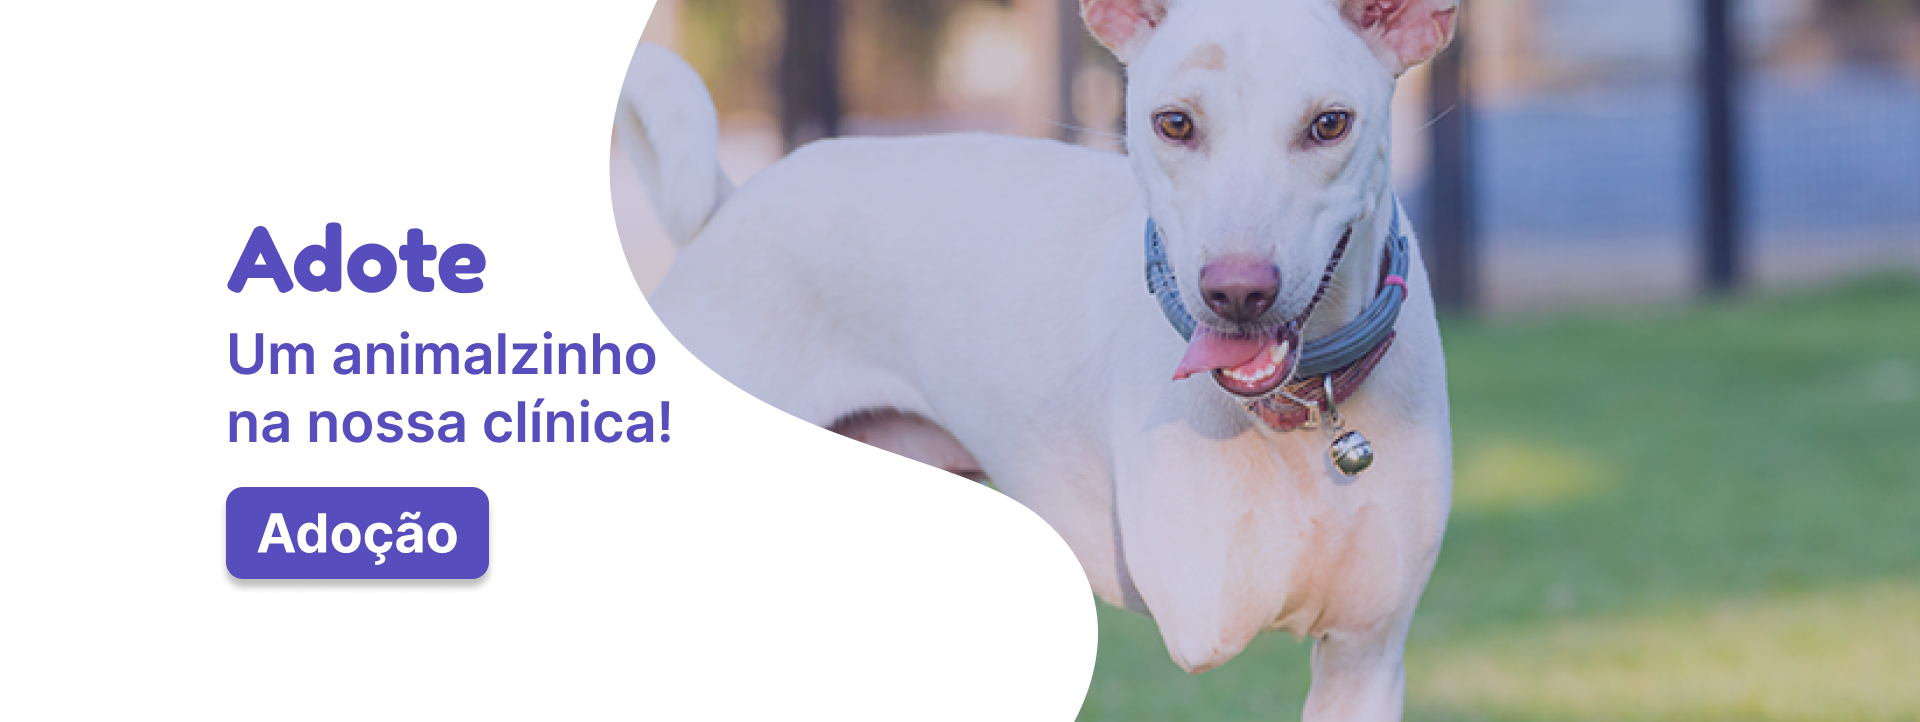
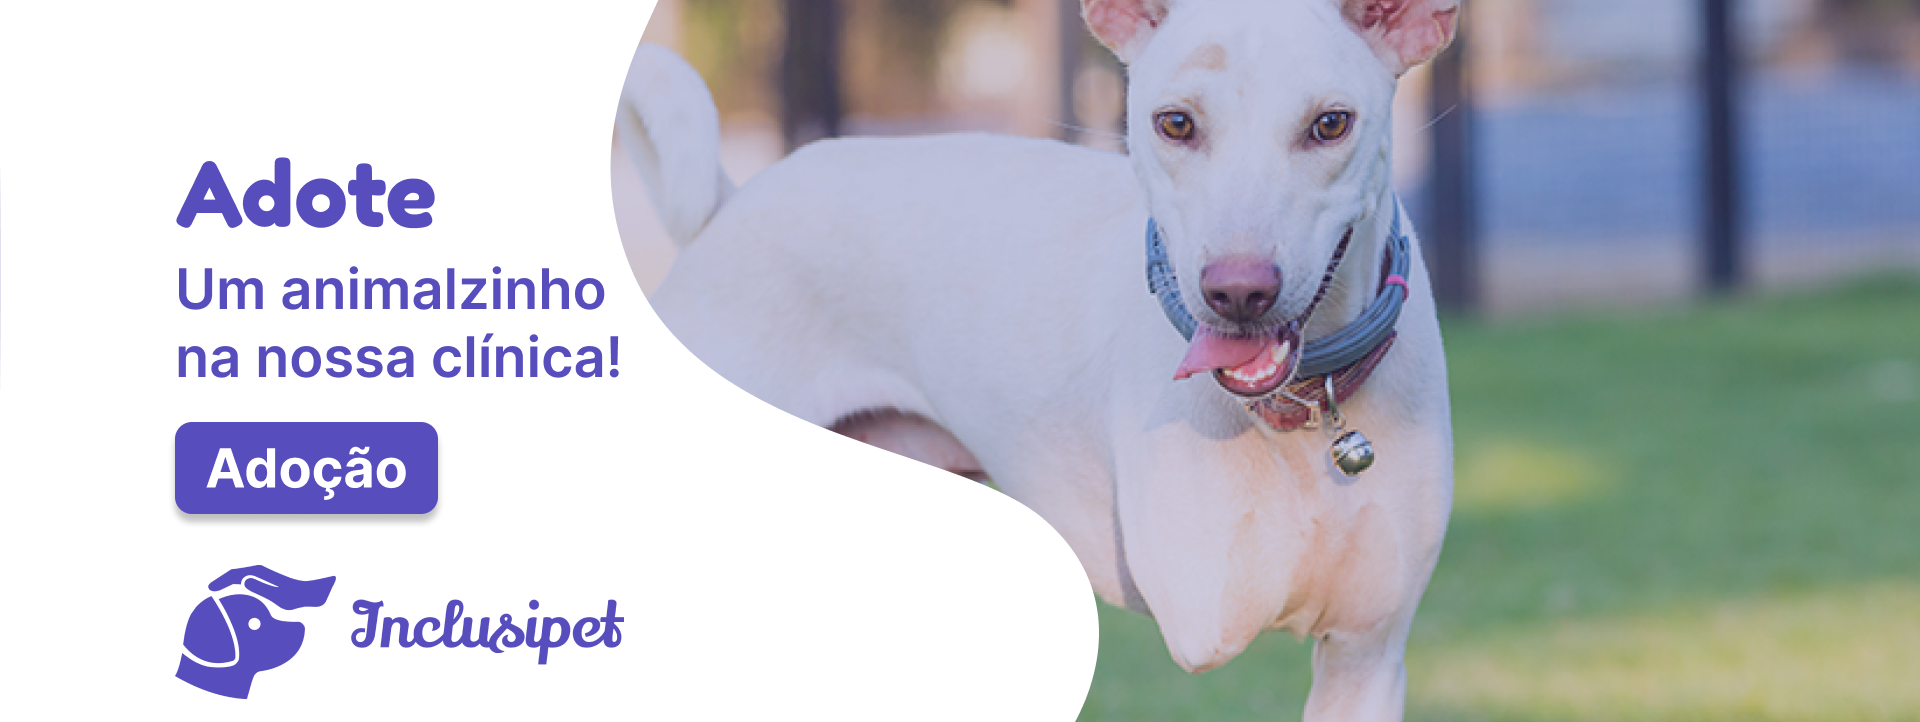
carrossel responsivo

diff --git a/index.html b/index.html
@@ -99,7 +99,7 @@
     <!-- CARROSSEL -->
     <div
       id="carouselExampleAutoplaying"
-      class="carousel slide"
+      class="carousel slide carousel-desktop"
       data-bs-ride="carousel"
     >
       <div class="carousel-indicators">
@@ -143,6 +143,81 @@
           <a href="agendamento.html"
             ><img
               src="img/Home/Slide3.png"
+              class="d-block w-100"
+              alt="Agendamento"
+          /></a>
+        </div>
+      </div>
+      <!--BOTÕES CARROSSEL-->
+      <button
+        class="carousel-control-prev"
+        type="button"
+        data-bs-target="#carouselExampleAutoplaying"
+        data-bs-slide="prev"
+      >
+        <span class="carousel-control-prev-icon" aria-hidden="true"></span>
+        <span class="visually-hidden">Anterior</span>
+      </button>
+      <button
+        class="carousel-control-next"
+        type="button"
+        data-bs-target="#carouselExampleAutoplaying"
+        data-bs-slide="next"
+      >
+        <span class="carousel-control-next-icon" aria-hidden="true"></span>
+        <span class="visually-hidden">Proximo</span>
+      </button>
+    </div>
+
+    <div
+      id="carouselExampleAutoplaying"
+      class="carousel slide carousel-mobile"
+      data-bs-ride="carousel"
+    >
+      <div class="carousel-indicators">
+        <button
+          type="button"
+          data-bs-target="#carouselExampleIndicators"
+          data-bs-slide-to="0"
+          class="active"
+          aria-current="true"
+          aria-label="Slide 1"
+        ></button>
+        <button
+          type="button"
+          data-bs-target="#carouselExampleIndicators"
+          data-bs-slide-to="1"
+          aria-label="Slide 2"
+        ></button>
+        <button
+          type="button"
+          data-bs-target="#carouselExampleIndicators"
+          data-bs-slide-to="2"
+          aria-label="Slide 3"
+        ></button>
+      </div>
+      <div class="carousel-inner">
+        <div class="carousel-item active">
+          <!--IMAGENS CARROSSEL-->
+          <a href="serviços.html"
+            ><img
+              src="img/Home/Slide 1 Mobile.png"
+              class="d-block w-100"
+              alt="Serviços"
+          /></a>
+        </div>
+        <div class="carousel-item">
+          <a href="adoção.html"
+            ><img
+              src="img/Home/Slide 2 Mobile.png"
+              class="d-block w-100"
+              alt="Adoção"
+          /></a>
+        </div>
+        <div class="carousel-item">
+          <a href="agendamento.html"
+            ><img
+              src="img/Home/Slide 3 Mobile.png"
               class="d-block w-100"
               alt="Agendamento"
           /></a>

diff --git a/css/StyleIndex.css b/css/StyleIndex.css
@@ -8,6 +8,9 @@
   margin-top: 3em;
   margin-bottom: 3em;
 }
+.carousel-mobile {
+  display: none;
+}
 /* Section > About us */
 .titulo__home {
   text-align: center;
@@ -348,6 +351,12 @@
   }
   .cartao__ultimosposts {
     width: 13.5rem;
+  }
+  .carousel-mobile {
+    display: block;
+  }
+  .carousel-desktop {
+    display: none;
   }
 }
 /* xs */

diff --git a/css/StyleLogin.css b/css/StyleLogin.css
@@ -46,9 +46,9 @@ ins {
   font-size: var(--size-xl);
 }
 .imagem {
+  display: none;
   position: absolute;
   width: 50%;
-  left: 50%;
   /* transition: left ease-in-out 0.3s;
   &:hover {
     left: 0;
@@ -57,6 +57,9 @@ ins {
 .imagem img {
   width: 100%;
   height: 100%;
+}
+footer {
+  margin-top: 0;
 }
 /* xl */
 @media (max-width: 1536px) {
